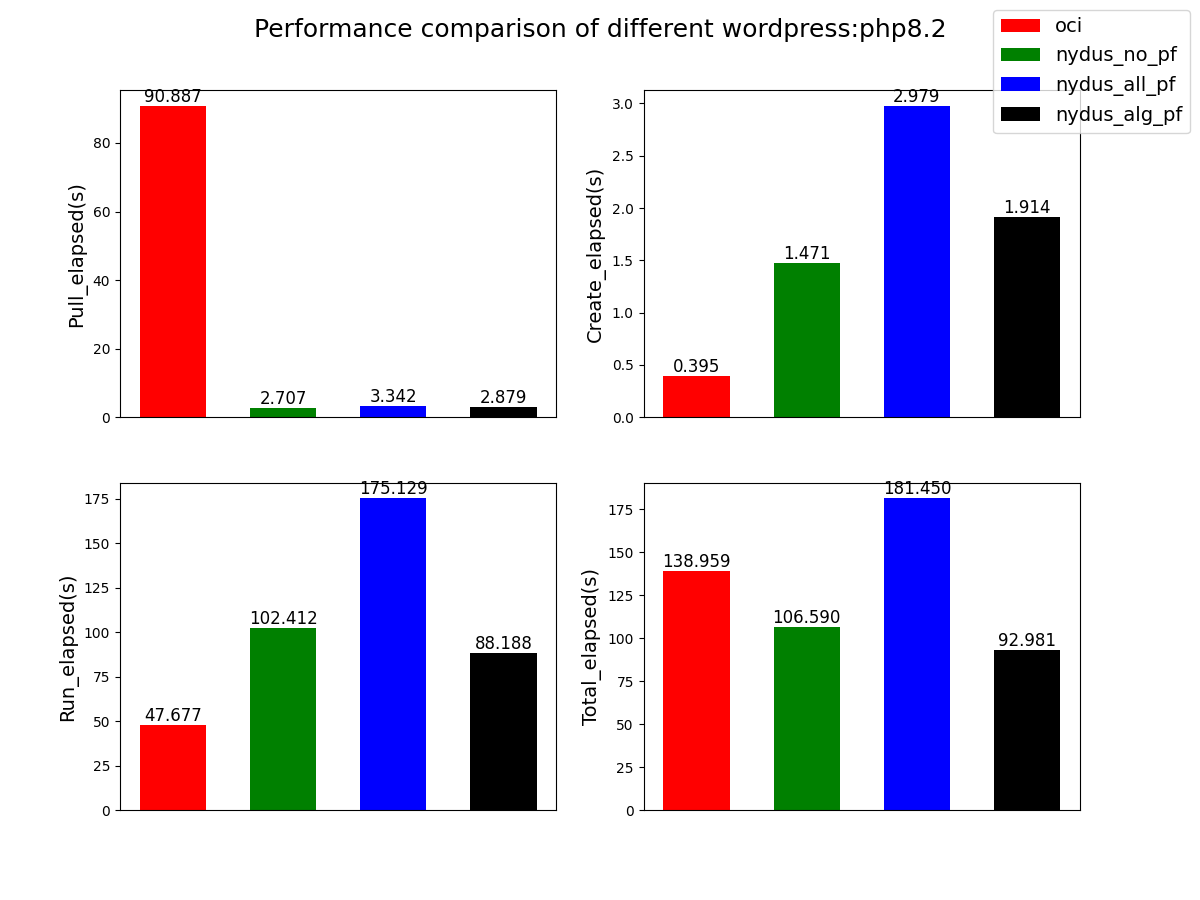
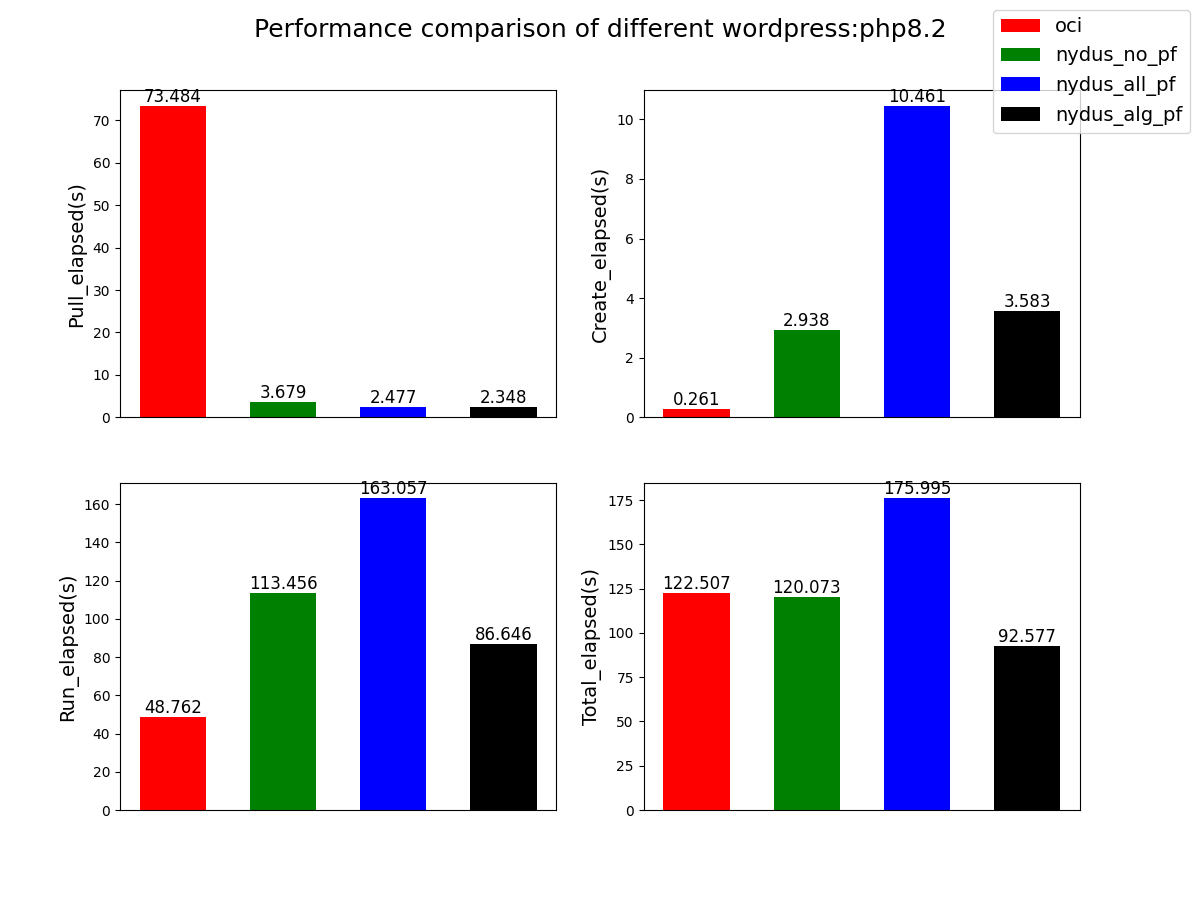
better result

diff --git a/README.md b/README.md
@@ -18,10 +18,10 @@ Please run this tool in root
 #### result:
 | timestamp     | registry                     | repo                               | pull_elapsed(s) | create_elapsed(s) | run_elapsed(s) | total_elapsed(s) |
 |---------------|------------------------------|------------------------------------|-----------------|-------------------|----------------|------------------|
-| 1679371823127 | dockerhub.kubekey.local/dfns | wordpress:php8.2                   | 90.887442       | 0.394524          | 47.677036      | 138.959002       |
-| 1679371930441 | dockerhub.kubekey.local/dfns | wordpress:php8.2_nydus             | 2.707250        | 1.470760          | 102.411740     | 106.589750       |
-| 1679372111961 | dockerhub.kubekey.local/dfns | wordpress:php8.2_nydus_prefetchall | 3.341576        | 2.979142          | 175.128998     | 181.449716       |
-| 1679372205407 | dockerhub.kubekey.local/dfns | wordpress:php8.2_nydus_prefetch    | 2.879120        | 1.913718          | 88.187928      | 92.980766        |
+| 1679448188882 | dockerhub.kubekey.local/dfns | wordpress:php8.2                   | 73.483700       | 0.260872          | 48.762206      | 122.506778       |
+| 1679448308586 | dockerhub.kubekey.local/dfns | wordpress:php8.2_nydus             | 3.678994        | 2.938472          | 113.455829     | 120.073295       |
+| 1679448485672 | dockerhub.kubekey.local/dfns | wordpress:php8.2_nydus_prefetchall | 2.477336        | 10.460972         | 163.056714     | 175.995022       |
+| 1679448578664 | dockerhub.kubekey.local/dfns | wordpress:php8.2_nydus_prefetch    | 2.347748        | 3.583408          | 86.645820      | 92.576976        |
 
 ![](./bench.png)
 
